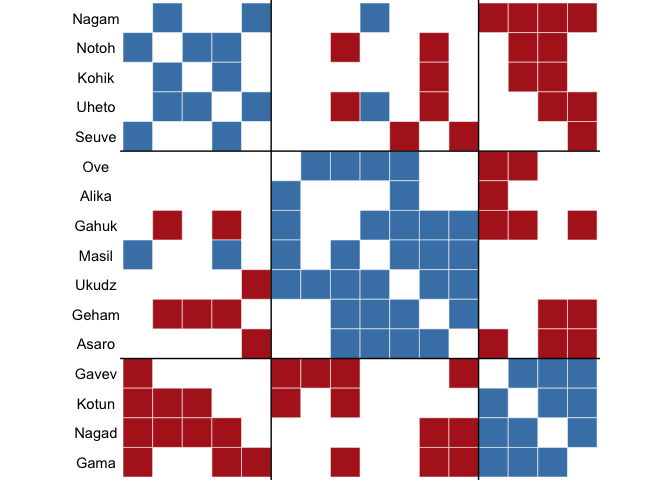
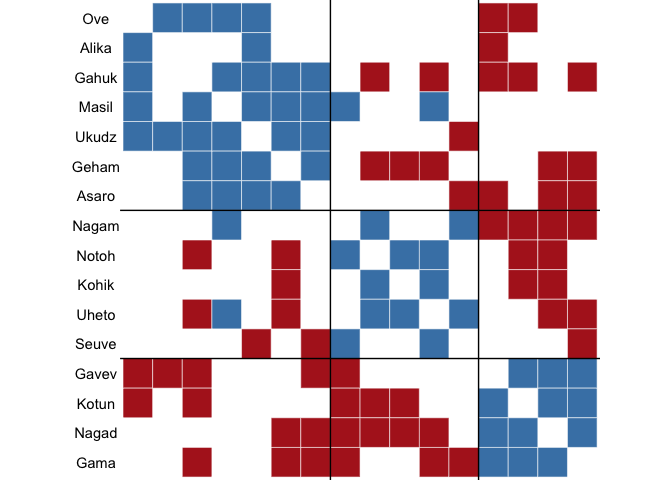
Prepare release 1.1.0
- bump version, NEWS and cran-comments
- regenerate CITATION.cff
- re-knit README; replace deprecated add.edges() in README and vignette

diff --git a/README.md b/README.md
@@ -86,7 +86,7 @@ are negative.
 clu <- signed_blockmodel(tribes, k = 3, alpha = 0.5, annealing = TRUE)
 clu
 #> $membership
-#>  [1] 3 3 2 2 1 2 2 2 1 1 2 2 1 1 3 3
+#>  [1] 3 3 1 1 2 1 1 1 2 2 1 1 2 2 3 3
 #> 
 #> $criterion
 #> [1] 2
@@ -107,10 +107,10 @@ The result of the blockmodel can be visualized with `ggblock` (requires
 ggblock(tribes, clu$membership, show_blocks = TRUE, show_labels = TRUE)
 ```
 
-<img src="man/figures/README-block_example-1.png" width="100%" />
+<img src="man/figures/README-block_example-1.png" alt="" width="100%" />
 
 The second blockmodeling technique is known as *generalized
-blockmodeling*. This method removes the restriction of positve
+blockmodeling*. This method removes the restriction of positive
 (negative) inter (intra) group edges. Instead, a blockmatrix is passed
 to the function with the desired block structure. The example below
 illustrates the technique with a network composed of three groups with
@@ -127,14 +127,9 @@ V(g3)$name <- as.character(11:15)
 g <- Reduce("%u%", list(g1, g2, g3))
 E(g)$sign <- 1
 E(g)$sign[1:10] <- -1
-g <- add.edges(g, c(rbind(1:5, 6:10)), attr = list(sign = -1))
-#> Warning: `add.edges()` was deprecated in igraph 2.0.0.
-#> ℹ Please use `add_edges()` instead.
-#> This warning is displayed once every 8 hours.
-#> Call `lifecycle::last_lifecycle_warnings()` to see where this
-#> warning was generated.
-g <- add.edges(g, c(rbind(1:5, 11:15)), attr = list(sign = -1))
-g <- add.edges(g, c(rbind(11:15, 6:10)), attr = list(sign = 1))
+g <- add_edges(g, c(rbind(1:5, 6:10)), attr = list(sign = -1))
+g <- add_edges(g, c(rbind(1:5, 11:15)), attr = list(sign = -1))
+g <- add_edges(g, c(rbind(11:15, 6:10)), attr = list(sign = 1))
 
 # specify the link patterns between groups
 blockmat <- matrix(c(1, -1, -1, -1, 1, 1, -1, 1, -1), 3, 3, byrow = TRUE)
@@ -154,7 +149,7 @@ clu
 ggblock(g, clu$membership, show_blocks = TRUE, show_labels = FALSE)
 ```
 
-<img src="man/figures/README-general_example-1.png" width="100%" />
+<img src="man/figures/README-general_example-1.png" alt="" width="100%" />
 
 # How to reach out?
 

diff --git a/cran-comments.md b/cran-comments.md
@@ -1,3 +1,12 @@
-# Update from 1.0.5 to 1.0.6
+# Update from 1.0.6 to 1.1.0
 
-- fix deprecated igraph calls and bug fixes
+- bug fixes, a rewrite of the blockmodeling algorithms and performance improvements
+- removes the use of the `attr` argument of igraph functions that is deprecated in upcoming igraph versions
+
+## R CMD check results
+
+0 errors | 0 warnings | 0 notes
+
+## Reverse dependencies
+
+There are no reverse dependencies.

diff --git a/NEWS.md b/NEWS.md
@@ -1,4 +1,6 @@
-# signnet (development version)
+# signnet 1.1.0
+
+This release fixes a number of bugs, rewrites the blockmodeling algorithms and speeds up several functions considerably. Results of `signed_blockmodel()` and `signed_blockmodel_general()` differ from earlier versions (see below).
 
 ## Bug fixes
 
